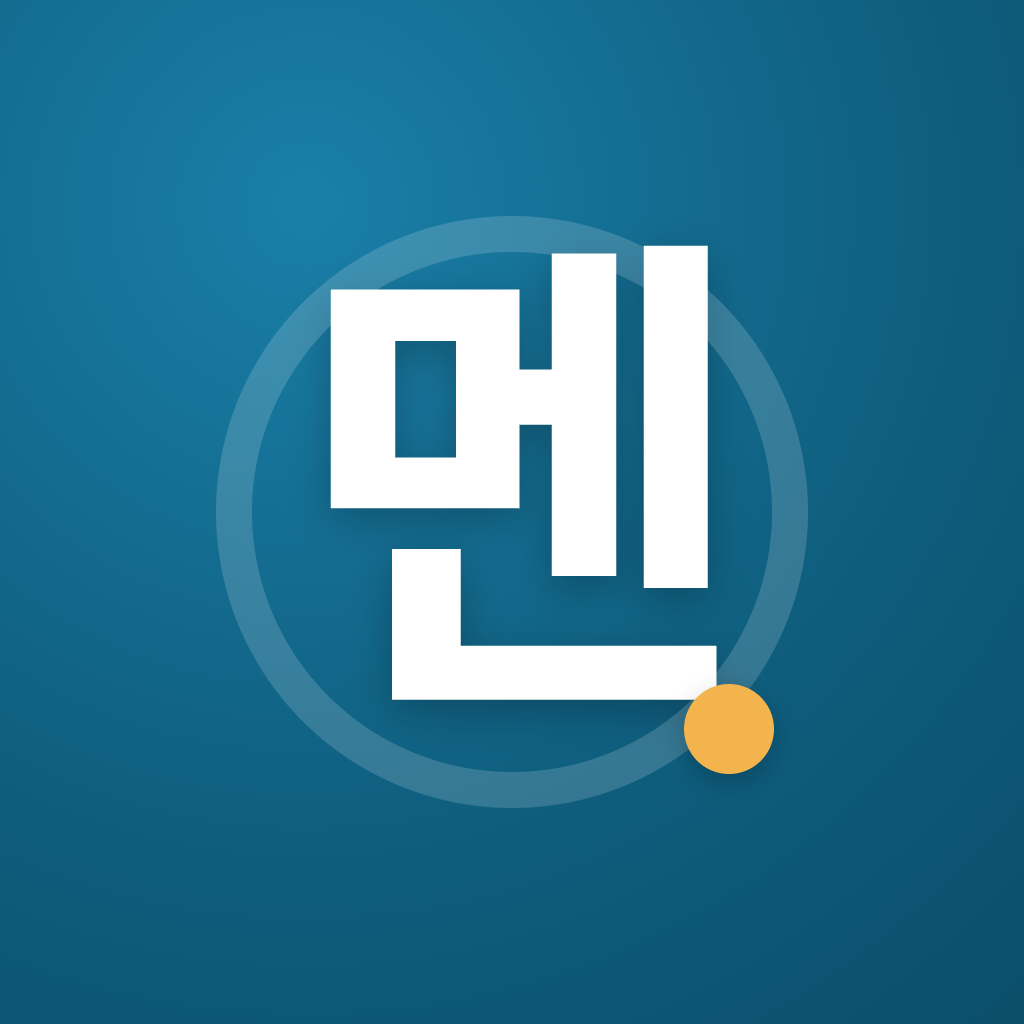
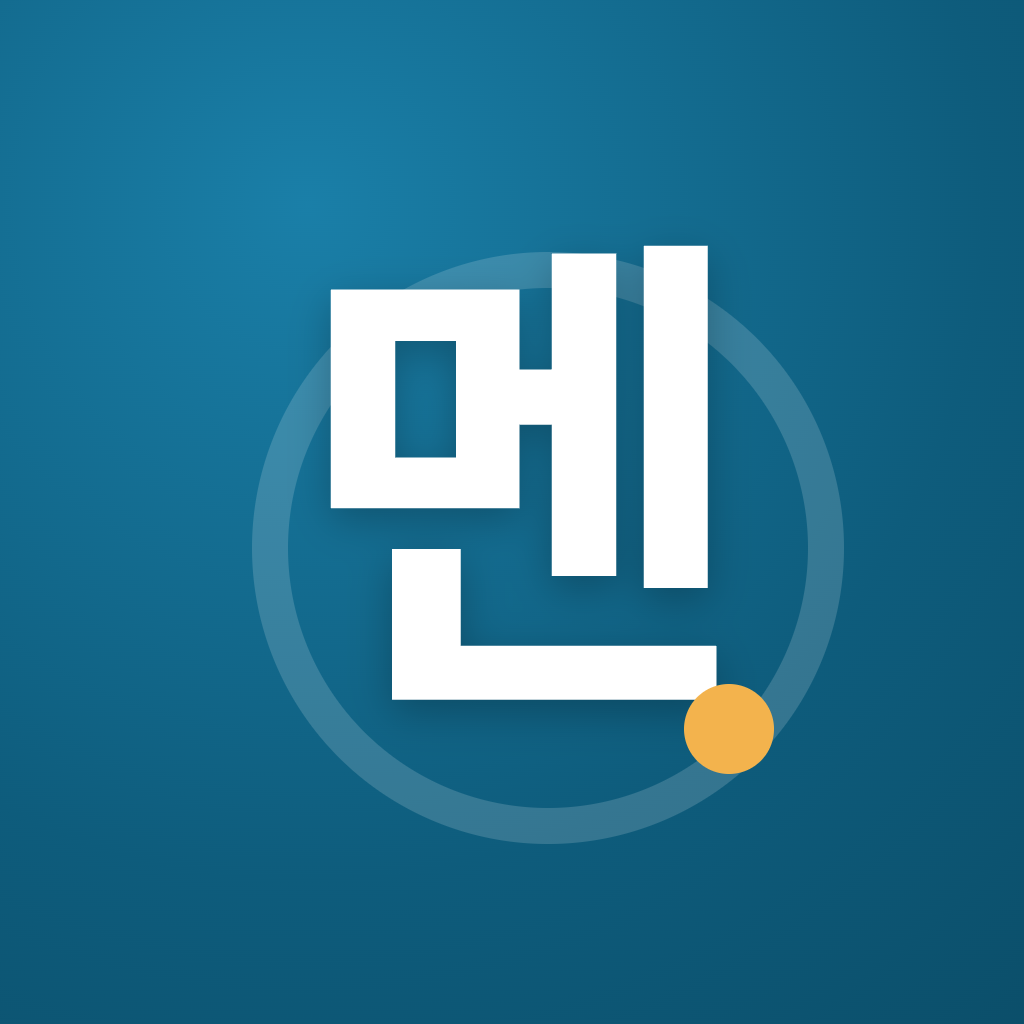
feat(branding): 화이트라벨 설정화 + 에셋 자동생성(기능 불변)
브랜드 값만 설정 한 곳에서 바꾸면 전체 반영. 기능·동작·화면 로직은 불변
(기본값=현재값 → 미변경 시 동일).

- branding.config.json: 단일 소스(앱명·로고글자·색·회사·연락처·번들ID·도메인).
- scripts/apply-branding.mjs: 설정 → 앱별 branding.generated.ts 생성 +
  아이콘·스플래시·알림·피처그래픽 자동 렌더(로고글자+primary 컬러).
- app.config.js: app.json(권한·플러그인=기능) 베이스에 브랜드 필드만 덮어씀
  (name·bundleId·scheme·slug·splash색·apiBase·webOrigin).
- 웹: main.tsx 가 --teal CSS변수 주입, 레이아웃 헤더 APP_NAME·LOGO_MARK.
- 모바일: theme.ts teal 팔레트 = 설정 컬러.
- API: 약관·개인정보 회사·연락처·서비스명 ENV(BRANDING_*) 주입(기본=현재값).
- docs/화이트라벨_가이드.md.

검증: api·web·mobile 빌드/타입체크/export 전부 정상, expo config 가
app.config.js 로 브랜드 반영.

Claude-Session: https://claude.ai/code/session_01XFBaeSCznsJaNe9q86v8DG

diff --git a/apps/api/src/modules/legal/legal.content.ts b/apps/api/src/modules/legal/legal.content.ts
@@ -8,16 +8,17 @@ export const TERMS_VERSION = '1.1';
 export const PRIVACY_VERSION = '1.1';
 export const LEGAL_UPDATED = '2026-07-04';
 
-// 실제 배포 전 확정할 자리표시자
-const COMPANY = '○○(주)'; // 실제 상호로 교체
-const CONTACT_EMAIL = 'privacy@REPLACE'; // 개인정보 보호책임자 연락처로 교체
+// 화이트라벨 — 브랜드 값은 ENV(branding)로 주입, 기본값은 현재값(무변화). 배포 시 확정.
+const APP = process.env.BRANDING_APP_NAME ?? '멘토링 플랫폼';
+const COMPANY = process.env.BRANDING_COMPANY ?? '○○(주)'; // 실제 상호로 교체
+const CONTACT_EMAIL = process.env.BRANDING_CONTACT_EMAIL ?? 'privacy@REPLACE'; // 보호책임자 연락처
 
 export const TERMS_DOC = {
   version: TERMS_VERSION,
   updatedAt: LEGAL_UPDATED,
   title: '이용약관',
   sections: [
-    { h: '제1조 (목적)', b: `본 약관은 ${COMPANY}(이하 "회사")가 제공하는 멘토링 플랫폼 서비스(이하 "서비스")의 이용 조건 및 절차, 회사와 회원 간의 권리·의무 및 책임사항을 규정함을 목적으로 합니다.` },
+    { h: '제1조 (목적)', b: `본 약관은 ${COMPANY}(이하 "회사")가 제공하는 ${APP} 서비스(이하 "서비스")의 이용 조건 및 절차, 회사와 회원 간의 권리·의무 및 책임사항을 규정함을 목적으로 합니다.` },
     { h: '제2조 (용어의 정의)', b: '"회원"이란 서비스에 가입하여 이용하는 학생·학부모·선생님·센터관리자를 말합니다. "크레딧"이란 상담·질문 이용을 위한 서비스 내 결제 수단이며, 현금 환급 대상이 아닙니다(구매분의 청약철회는 관련 법령에 따릅니다).' },
     { h: '제3조 (계정과 가입)', b: '회원은 정확한 정보로 가입하여야 하며, 계정 정보의 관리 책임은 회원에게 있습니다. 만 14세 미만은 법정대리인(보호자)의 동의를 받아 가입·이용하여야 합니다.' },
     { h: '제4조 (상담 예약·진행)', b: '회원은 선생님 근무시간 내에서 상담을 예약하며, 상담은 채팅·화이트보드·음성통화·오프라인 등 제공되는 방식으로 진행됩니다. 각 세션의 앞뒤로 휴게 시간이 적용될 수 있습니다.' },
@@ -36,7 +37,7 @@ export const PRIVACY_DOC = {
   updatedAt: LEGAL_UPDATED,
   title: '개인정보처리방침',
   sections: [
-    { h: '1. 총칙', b: `${COMPANY}(이하 "회사")는 이용자의 개인정보를 중요시하며 개인정보 보호법 등 관련 법령을 준수합니다. 본 방침은 멘토링 플랫폼 앱·웹 서비스에 적용됩니다.` },
+    { h: '1. 총칙', b: `${COMPANY}(이하 "회사")는 이용자의 개인정보를 중요시하며 개인정보 보호법 등 관련 법령을 준수합니다. 본 방침은 ${APP} 앱·웹 서비스에 적용됩니다.` },
     { h: '2. 수집하는 개인정보 항목', b: '(필수) 이름, 로그인 아이디·비밀번호, 연락처(이메일·전화), 소속 센터, 학년/역할. (서비스 이용) 상담·질문 내역, 채팅 메시지, 첨부 사진·파일, 화이트보드 이미지, 음성통화 연결정보, 상담 기록, 성적 정보. (결제) 크레딧·결제 내역. (자동수집) 기기정보, 푸시 알림 토큰, 접속 로그·IP. 만 14세 미만은 법정대리인 성명·연락처를 추가 수집합니다.' },
     { h: '3. 기기 권한', b: '카메라(문제 촬영·화이트보드 배경), 마이크(음성통화), 사진 라이브러리(첨부), 알림(상담·질문 푸시)을 사용합니다. 권한은 거부할 수 있으며, 거부 시 해당 기능만 제한되고 서비스 이용은 가능합니다.' },
     { h: '4. 수집·이용 목적', b: '회원 식별·인증, 상담 매칭·예약·진행, 크레딧 정산·결제, 상담 기록 제공(공개 범위 한정), 알림 발송, 신고·분쟁 처리, 부정이용 방지, 서비스 개선 및 통계에 이용합니다.' },

diff --git a/apps/mobile/app.config.js b/apps/mobile/app.config.js
@@ -1,0 +1,33 @@
+/**
+ * 화이트라벨 — app.json(권한·플러그인 등 기능 설정)을 베이스로, 브랜드 값만
+ * branding.config.json 에서 덮어씀. 기능·동작 불변, 브랜드만 설정 주입.
+ * (Expo 는 app.config.js 가 있으면 이를 우선 사용)
+ */
+const base = require('./app.json').expo;
+let b;
+try {
+  b = require('../../branding.config.json');
+} catch {
+  b = null; // 설정 없으면 app.json 그대로
+}
+
+module.exports = () => {
+  if (!b) return { expo: base };
+  return {
+    expo: {
+      ...base,
+      name: b.appName,
+      slug: b.ids?.slug ?? base.slug,
+      scheme: b.ids?.scheme ?? base.scheme,
+      splash: { ...base.splash, backgroundColor: b.colors?.primary ?? base.splash.backgroundColor },
+      ios: { ...base.ios, bundleIdentifier: b.ids?.bundleId ?? base.ios.bundleIdentifier },
+      android: {
+        ...base.android,
+        package: b.ids?.bundleId ?? base.android.package,
+        adaptiveIcon: { ...base.android.adaptiveIcon, backgroundColor: b.colors?.primary ?? base.android.adaptiveIcon.backgroundColor },
+      },
+      notification: { ...base.notification, color: b.colors?.primary ?? base.notification.color },
+      extra: { ...base.extra, apiBase: b.urls?.apiBase ?? base.extra.apiBase, webOrigin: b.urls?.webOrigin ?? base.extra.webOrigin },
+    },
+  };
+};

diff --git a/apps/mobile/src/branding.generated.ts b/apps/mobile/src/branding.generated.ts
@@ -1,0 +1,33 @@
+/* 자동 생성 — branding.config.json 기반. 직접 수정 금지(재생성됨).
+ * 재생성: node scripts/apply-branding.mjs  (apps/mobile/src/branding.generated.ts) */
+export const branding = {
+  "_comment": "화이트라벨 브랜딩 단일 소스. 값 변경 후 `node scripts/apply-branding.mjs` 실행 → 앱 생성파일·에셋·설정 자동 반영(기능·동작은 불변).",
+  "appName": "멘토링 플랫폼",
+  "shortName": "멘토링",
+  "logoMark": "멘",
+  "tagline": "학습센터 선생님과 1:1 상담·멘토링",
+  "company": "○○(주)",
+  "contactEmail": "privacy@REPLACE",
+  "supportEmail": "support@REPLACE",
+  "colors": {
+    "primary": "#0E5C7C",
+    "primaryDark": "#0A4A64",
+    "primary500": "#1A7FA8",
+    "accent": "#F3B34D",
+    "ink": "#16242B"
+  },
+  "ids": {
+    "bundleId": "com.example.mentoring",
+    "scheme": "mentoring",
+    "slug": "mentoring-platform"
+  },
+  "urls": {
+    "apiBase": "http://localhost:3000/api/v1",
+    "webOrigin": "",
+    "privacyUrl": "https://REPLACE/privacy",
+    "termsUrl": "https://REPLACE/terms"
+  }
+} as const;
+export const APP_NAME = "멘토링 플랫폼";
+export const LOGO_MARK = "멘";
+export const COLORS = {"primary":"#0E5C7C","primaryDark":"#0A4A64","primary500":"#1A7FA8","accent":"#F3B34D","ink":"#16242B"} as const;

diff --git a/apps/web/src/branding.generated.ts b/apps/web/src/branding.generated.ts
@@ -1,0 +1,33 @@
+/* 자동 생성 — branding.config.json 기반. 직접 수정 금지(재생성됨).
+ * 재생성: node scripts/apply-branding.mjs  (apps/web/src/branding.generated.ts) */
+export const branding = {
+  "_comment": "화이트라벨 브랜딩 단일 소스. 값 변경 후 `node scripts/apply-branding.mjs` 실행 → 앱 생성파일·에셋·설정 자동 반영(기능·동작은 불변).",
+  "appName": "멘토링 플랫폼",
+  "shortName": "멘토링",
+  "logoMark": "멘",
+  "tagline": "학습센터 선생님과 1:1 상담·멘토링",
+  "company": "○○(주)",
+  "contactEmail": "privacy@REPLACE",
+  "supportEmail": "support@REPLACE",
+  "colors": {
+    "primary": "#0E5C7C",
+    "primaryDark": "#0A4A64",
+    "primary500": "#1A7FA8",
+    "accent": "#F3B34D",
+    "ink": "#16242B"
+  },
+  "ids": {
+    "bundleId": "com.example.mentoring",
+    "scheme": "mentoring",
+    "slug": "mentoring-platform"
+  },
+  "urls": {
+    "apiBase": "http://localhost:3000/api/v1",
+    "webOrigin": "",
+    "privacyUrl": "https://REPLACE/privacy",
+    "termsUrl": "https://REPLACE/terms"
+  }
+} as const;
+export const APP_NAME = "멘토링 플랫폼";
+export const LOGO_MARK = "멘";
+export const COLORS = {"primary":"#0E5C7C","primaryDark":"#0A4A64","primary500":"#1A7FA8","accent":"#F3B34D","ink":"#16242B"} as const;

diff --git a/apps/mobile/src/theme.ts b/apps/mobile/src/theme.ts
@@ -4,6 +4,7 @@
  */
 import { createContext, createElement, useContext, useMemo, useState, type ReactNode } from 'react';
 import { StyleSheet } from 'react-native';
+import { COLORS as BRAND } from './branding.generated'; // 화이트라벨 브랜드 컬러(설정 주입)
 
 export type Palette = {
   teal: string; teal900: string; teal500: string; teal100: string; teal50: string;
@@ -19,7 +20,7 @@ export type Palette = {
 };
 
 export const LIGHT: Palette = {
-  teal: '#0E5C7C', teal900: '#0A4A64', teal500: '#1A7FA8', teal100: '#DCECF3', teal50: '#F0F7FA',
+  teal: BRAND.primary, teal900: BRAND.primaryDark, teal500: BRAND.primary500, teal100: '#DCECF3', teal50: '#F0F7FA',
   ink: '#16242B', body: '#374151', muted: '#52656D', caption: '#94A3AB',
   line: '#E7ECEF', lineSoft: '#EEF2F4', inputBorder: '#CBD5DA',
   bg: '#F2F4F6', fill: '#F6F8FA', white: '#FFFFFF',

diff --git a/apps/web/src/components/AdminLayout.tsx b/apps/web/src/components/AdminLayout.tsx
@@ -1,4 +1,5 @@
 import { NavLink, Outlet } from 'react-router-dom';
+import { APP_NAME, LOGO_MARK } from '../branding.generated';
 import { useAuth } from '../auth/AuthContext';
 import { isHq } from '../auth/roleHome';
 import { ThemeToggle } from './ThemeToggle';
@@ -18,9 +19,9 @@ export function AdminLayout() {
     <div className="shell">
       <aside className="sidebar navy">
         <div className="sidebar-logo">
-          <span className="mark">멘</span>
+          <span className="mark">{LOGO_MARK}</span>
           <div>
-            <div className="title">멘토링 플랫폼</div>
+            <div className="title">{APP_NAME}</div>
             <div className="center">{isMaster ? '마스터' : hq ? '본사' : '관리자'} · {scopeLabel}</div>
           </div>
         </div>

diff --git a/apps/web/src/components/StudentLayout.tsx b/apps/web/src/components/StudentLayout.tsx
@@ -1,4 +1,5 @@
 import { useEffect, useState } from 'react';
+import { APP_NAME, LOGO_MARK } from '../branding.generated';
 import { NavLink, Outlet } from 'react-router-dom';
 import { api } from '../api/client';
 import { useAuth } from '../auth/AuthContext';
@@ -30,9 +31,9 @@ export function StudentLayout() {
     <div className="shell">
       <aside className="sidebar">
         <div className="sidebar-logo">
-          <span className="mark">멘</span>
+          <span className="mark">{LOGO_MARK}</span>
           <div>
-            <div className="title">멘토링 플랫폼</div>
+            <div className="title">{APP_NAME}</div>
             <div className="center">학생</div>
           </div>
         </div>

diff --git a/apps/web/src/components/AppLayout.tsx b/apps/web/src/components/AppLayout.tsx
@@ -1,4 +1,5 @@
 import { NavLink, Outlet } from 'react-router-dom';
+import { APP_NAME, LOGO_MARK } from '../branding.generated';
 import { useAuth } from '../auth/AuthContext';
 import { ThemeToggle } from './ThemeToggle';
 
@@ -26,9 +27,9 @@ export function AppLayout() {
     <div className="shell">
       <aside className="sidebar">
         <div className="sidebar-logo">
-          <span className="mark">멘</span>
+          <span className="mark">{LOGO_MARK}</span>
           <div>
-            <div className="title">멘토링 플랫폼</div>
+            <div className="title">{APP_NAME}</div>
             <div className="center">선생님 콘솔</div>
           </div>
         </div>

diff --git a/apps/web/src/main.tsx b/apps/web/src/main.tsx
@@ -7,6 +7,13 @@ import { I18nProvider } from './i18n';
 import './styles/tokens.css';
 import './styles/components.css';
 import { initTheme } from './theme';
+import { COLORS } from './branding.generated'; // 화이트라벨 브랜드 컬러(설정 주입)
+
+// 브랜드 컬러를 CSS 변수로 주입(tokens.css 기본값 오버라이드 — 기본값=현재값이면 무변화)
+const rootStyle = document.documentElement.style;
+rootStyle.setProperty('--teal', COLORS.primary);
+rootStyle.setProperty('--teal-900', COLORS.primaryDark);
+rootStyle.setProperty('--teal-500', COLORS.primary500);
 
 initTheme();
 

diff --git a/docs/화이트라벨_가이드.md b/docs/화이트라벨_가이드.md
@@ -1,0 +1,77 @@
+# 화이트라벨 가이드 — 브랜드 설정화 + 에셋 자동생성
+
+> 기능·동작은 그대로. **브랜드 값만 설정 한 곳에서 바꾸면 전체에 반영**됩니다.
+> 새 사업자 세팅 = `branding.config.json` 수정 + `apply-branding` 실행 + 배포.
+
+## 1. 단일 소스 — `branding.config.json`
+
+```jsonc
+{
+  "appName": "멘토링 플랫폼",     // 앱명·헤더·스토어·약관
+  "logoMark": "멘",               // 아이콘·스플래시·사이드바 로고 글자
+  "tagline": "학습센터 선생님과 1:1 상담·멘토링",
+  "company": "○○(주)",           // 약관·개인정보 회사명
+  "contactEmail": "privacy@REPLACE",
+  "supportEmail": "support@REPLACE",
+  "colors": { "primary": "#0E5C7C", "primaryDark": "#0A4A64", "primary500": "#1A7FA8", "accent": "#F3B34D", "ink": "#16242B" },
+  "ids": { "bundleId": "com.example.mentoring", "scheme": "mentoring", "slug": "mentoring-platform" },
+  "urls": { "apiBase": "https://api.REPLACE/api/v1", "webOrigin": "https://app.REPLACE", "privacyUrl": "...", "termsUrl": "..." }
+}
+```
+
+## 2. 적용 — `node scripts/apply-branding.mjs`
+
+읽어서 자동 반영:
+- **생성 파일**: `apps/web/src/branding.generated.ts`, `apps/mobile/src/branding.generated.ts` (앱 코드가 import: `APP_NAME`·`LOGO_MARK`·`COLORS`)
+- **에셋 자동생성**(headless Chrome): `apps/mobile/assets/{icon,adaptive-icon,splash-icon,notification-icon}.png`, `apps/mobile/store/feature-graphic.png` — 로고 글자 + primary 컬러로 렌더
+- `--no-assets` 옵션: TS 생성만(에셋 스킵)
+
+## 3. 값이 흘러가는 곳 (설정 → 코드)
+
+| 설정 | 반영 위치 |
+|---|---|
+| `appName` | 웹 사이드바 헤더(AppLayout·StudentLayout·AdminLayout), 모바일 app.config.js `name`, 약관·개인정보 서비스명 |
+| `logoMark` | 아이콘·스플래시·피처그래픽, 웹 사이드바 로고 |
+| `colors.primary/…` | 웹 CSS 변수 `--teal`(main.tsx 주입), 모바일 theme.ts 팔레트, app.json 스플래시·adaptiveIcon 색 |
+| `company`·`contactEmail` | 약관·개인정보(API `legal.content.ts` — ENV `BRANDING_COMPANY`·`BRANDING_CONTACT_EMAIL`) |
+| `ids.bundleId/scheme/slug` | 모바일 `app.config.js`(iOS bundleIdentifier·Android package·scheme·slug) |
+| `urls.apiBase/webOrigin` | `app.config.js` extra(앱 API·임베드 세션 주소) |
+
+> app.config.js 가 app.json(권한·플러그인 등 **기능 설정**)을 베이스로 **브랜드 필드만** 덮어씀 → 기능 불변.
+
+## 4. API(약관·회사명) ENV
+
+```bash
+BRANDING_APP_NAME="○○ 멘토링"
+BRANDING_COMPANY="○○ 주식회사"
+BRANDING_CONTACT_EMAIL="privacy@○○.com"
+```
+docker-compose/서버 env 에 넣으면 약관·개인정보에 반영(미설정 시 현재 기본값).
+
+## 5. 새 사업자 세팅 순서
+
+```bash
+# 1) 브랜드 값 편집
+vi branding.config.json            # 앱명·로고글자·색·회사·도메인·번들ID
+
+# 2) 적용(생성파일 + 에셋)
+node scripts/apply-branding.mjs
+
+# 3) API env(약관 회사명)
+#    docker-compose / 배포 env 에 BRANDING_* 설정
+
+# 4) 빌드·배포
+(cd apps/web && npm run build)
+(cd apps/mobile && npx expo export -p web)   # 또는 eas build
+```
+
+## 6. 남는 사업자별 확정(코드 아님)
+
+- 스토어 개발자 계정(Apple/Google)·앱 심사 제출
+- 실 도메인·HTTPS, 관리형 DB·스토리지·푸시(FCM/APNs) 자격증명 → 어댑터에 주입(코드 불변)
+- PG·카카오 알림톡 등 연동 자격증명, 개인정보/약관 법무 검토
+- (인프라 식별자: `DATABASE_URL`·`COMPOSE_PROJECT_NAME` 등은 배포 환경에서 설정 — `docs/백엔드_프로덕션_준비.md`)
+
+## 참고
+- **기능·동작 불변** — 이 설정은 브랜드 표현만 주입합니다. 기본값 = 현재값이라 미변경 시 화면 동일.
+- `branding.generated.ts`·에셋은 **생성물**(커밋됨). 값 바꾸면 `apply-branding` 재실행으로 재생성.
